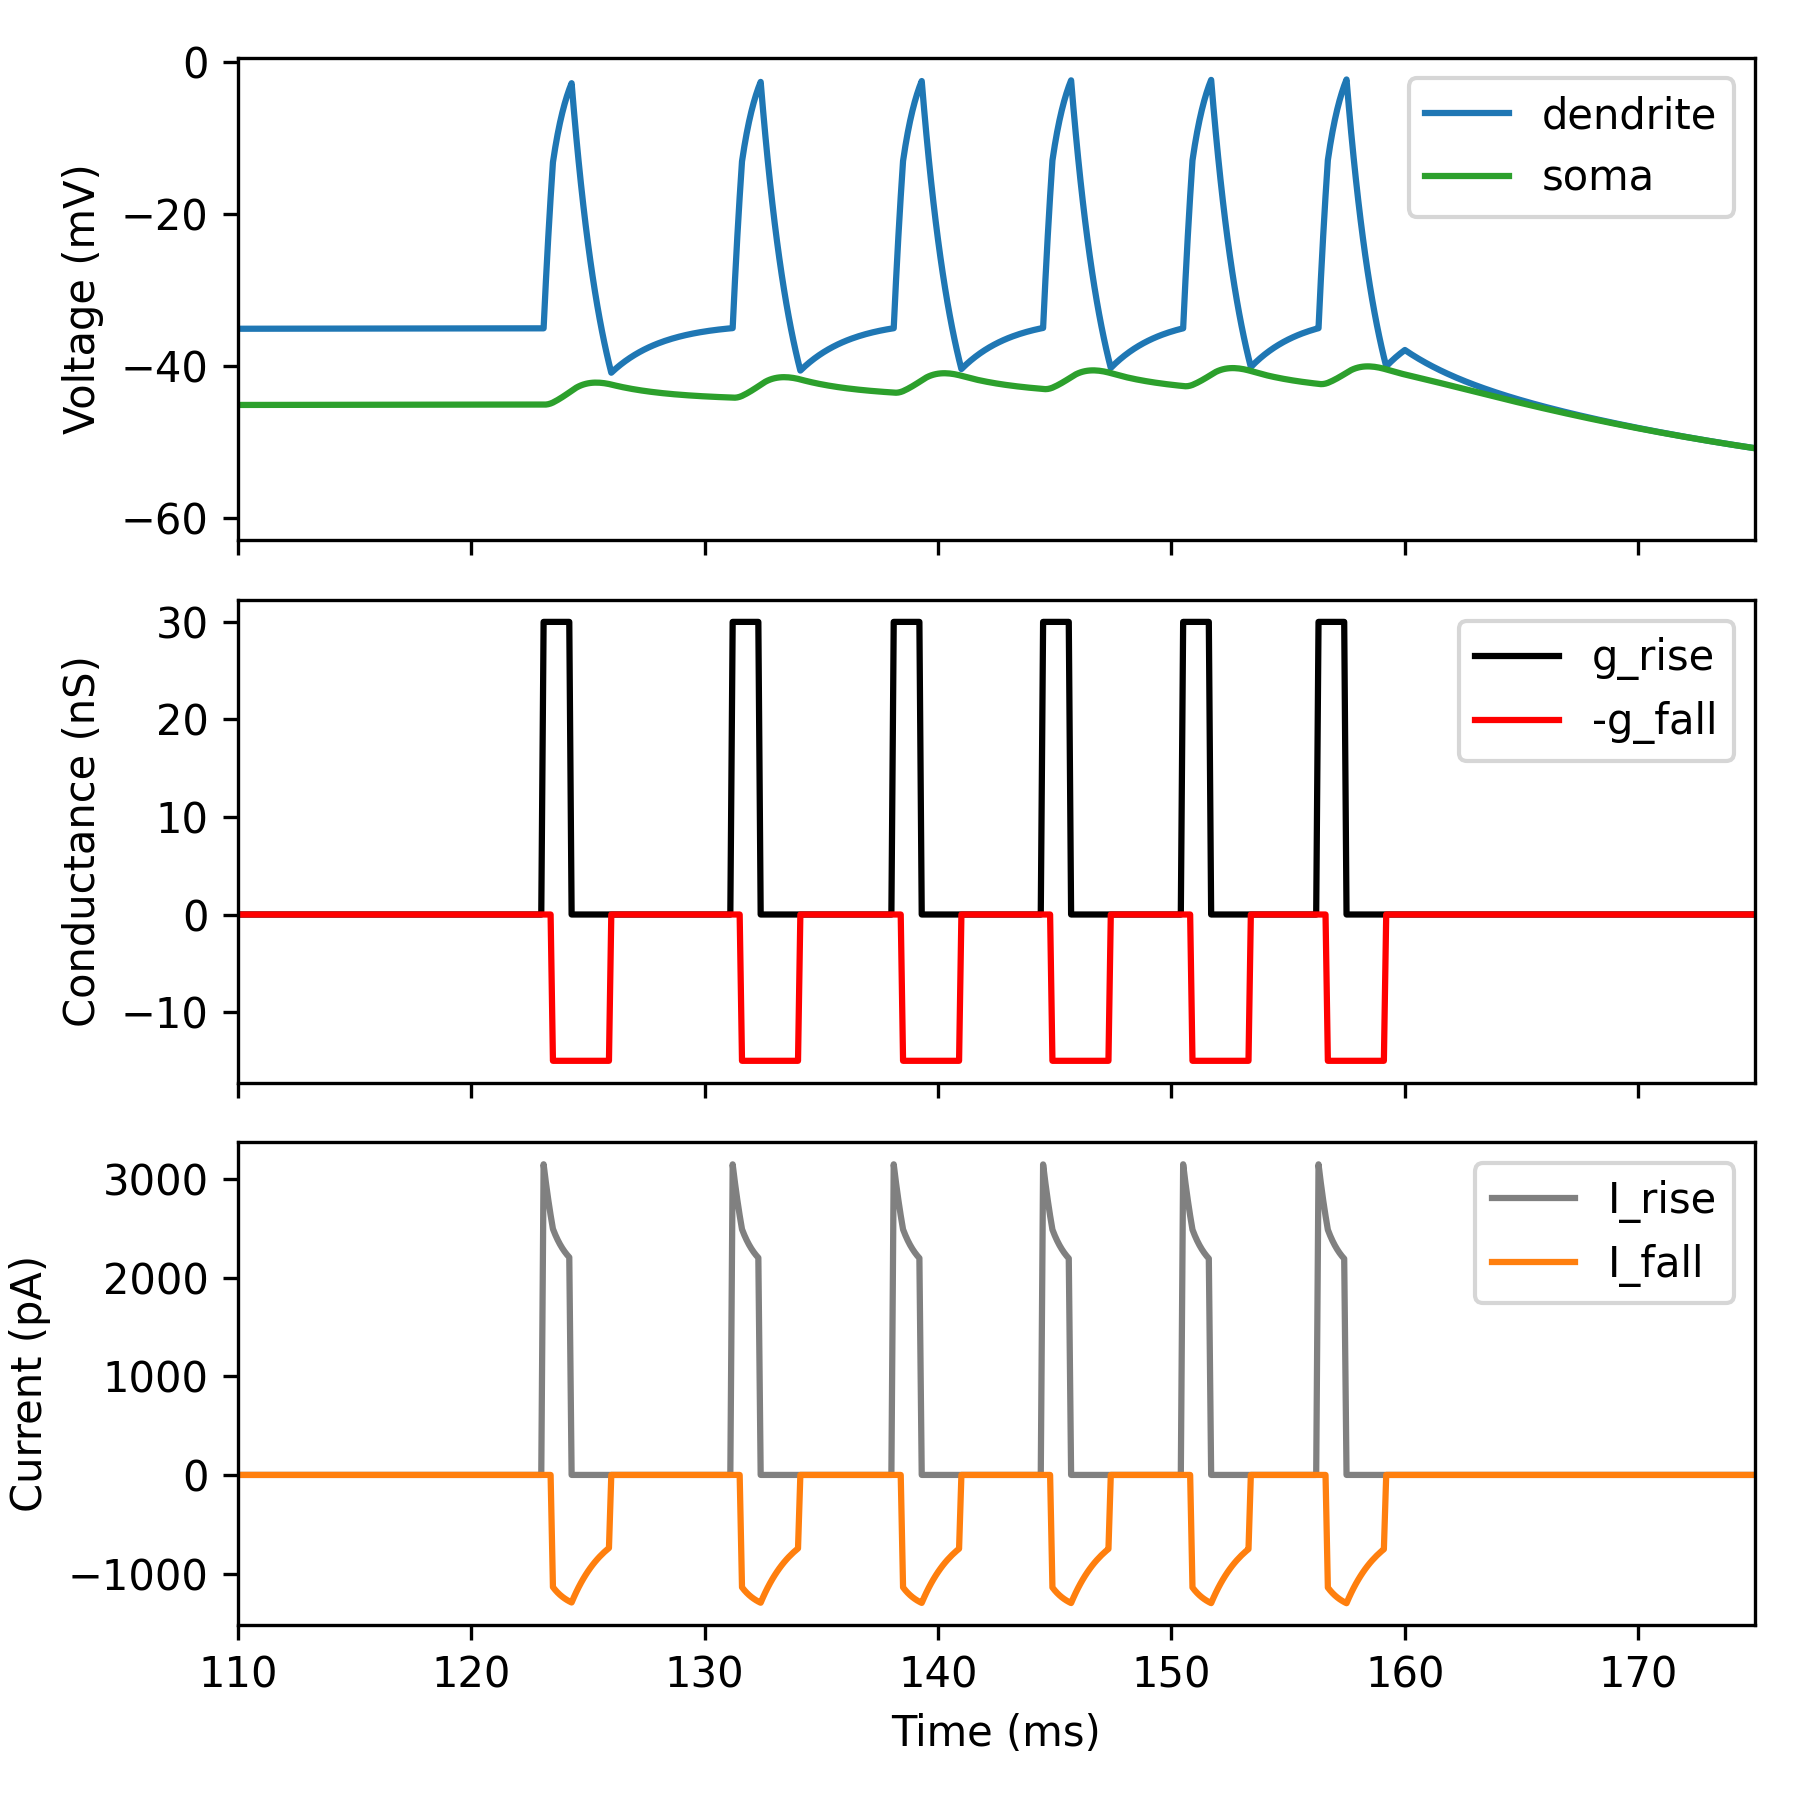
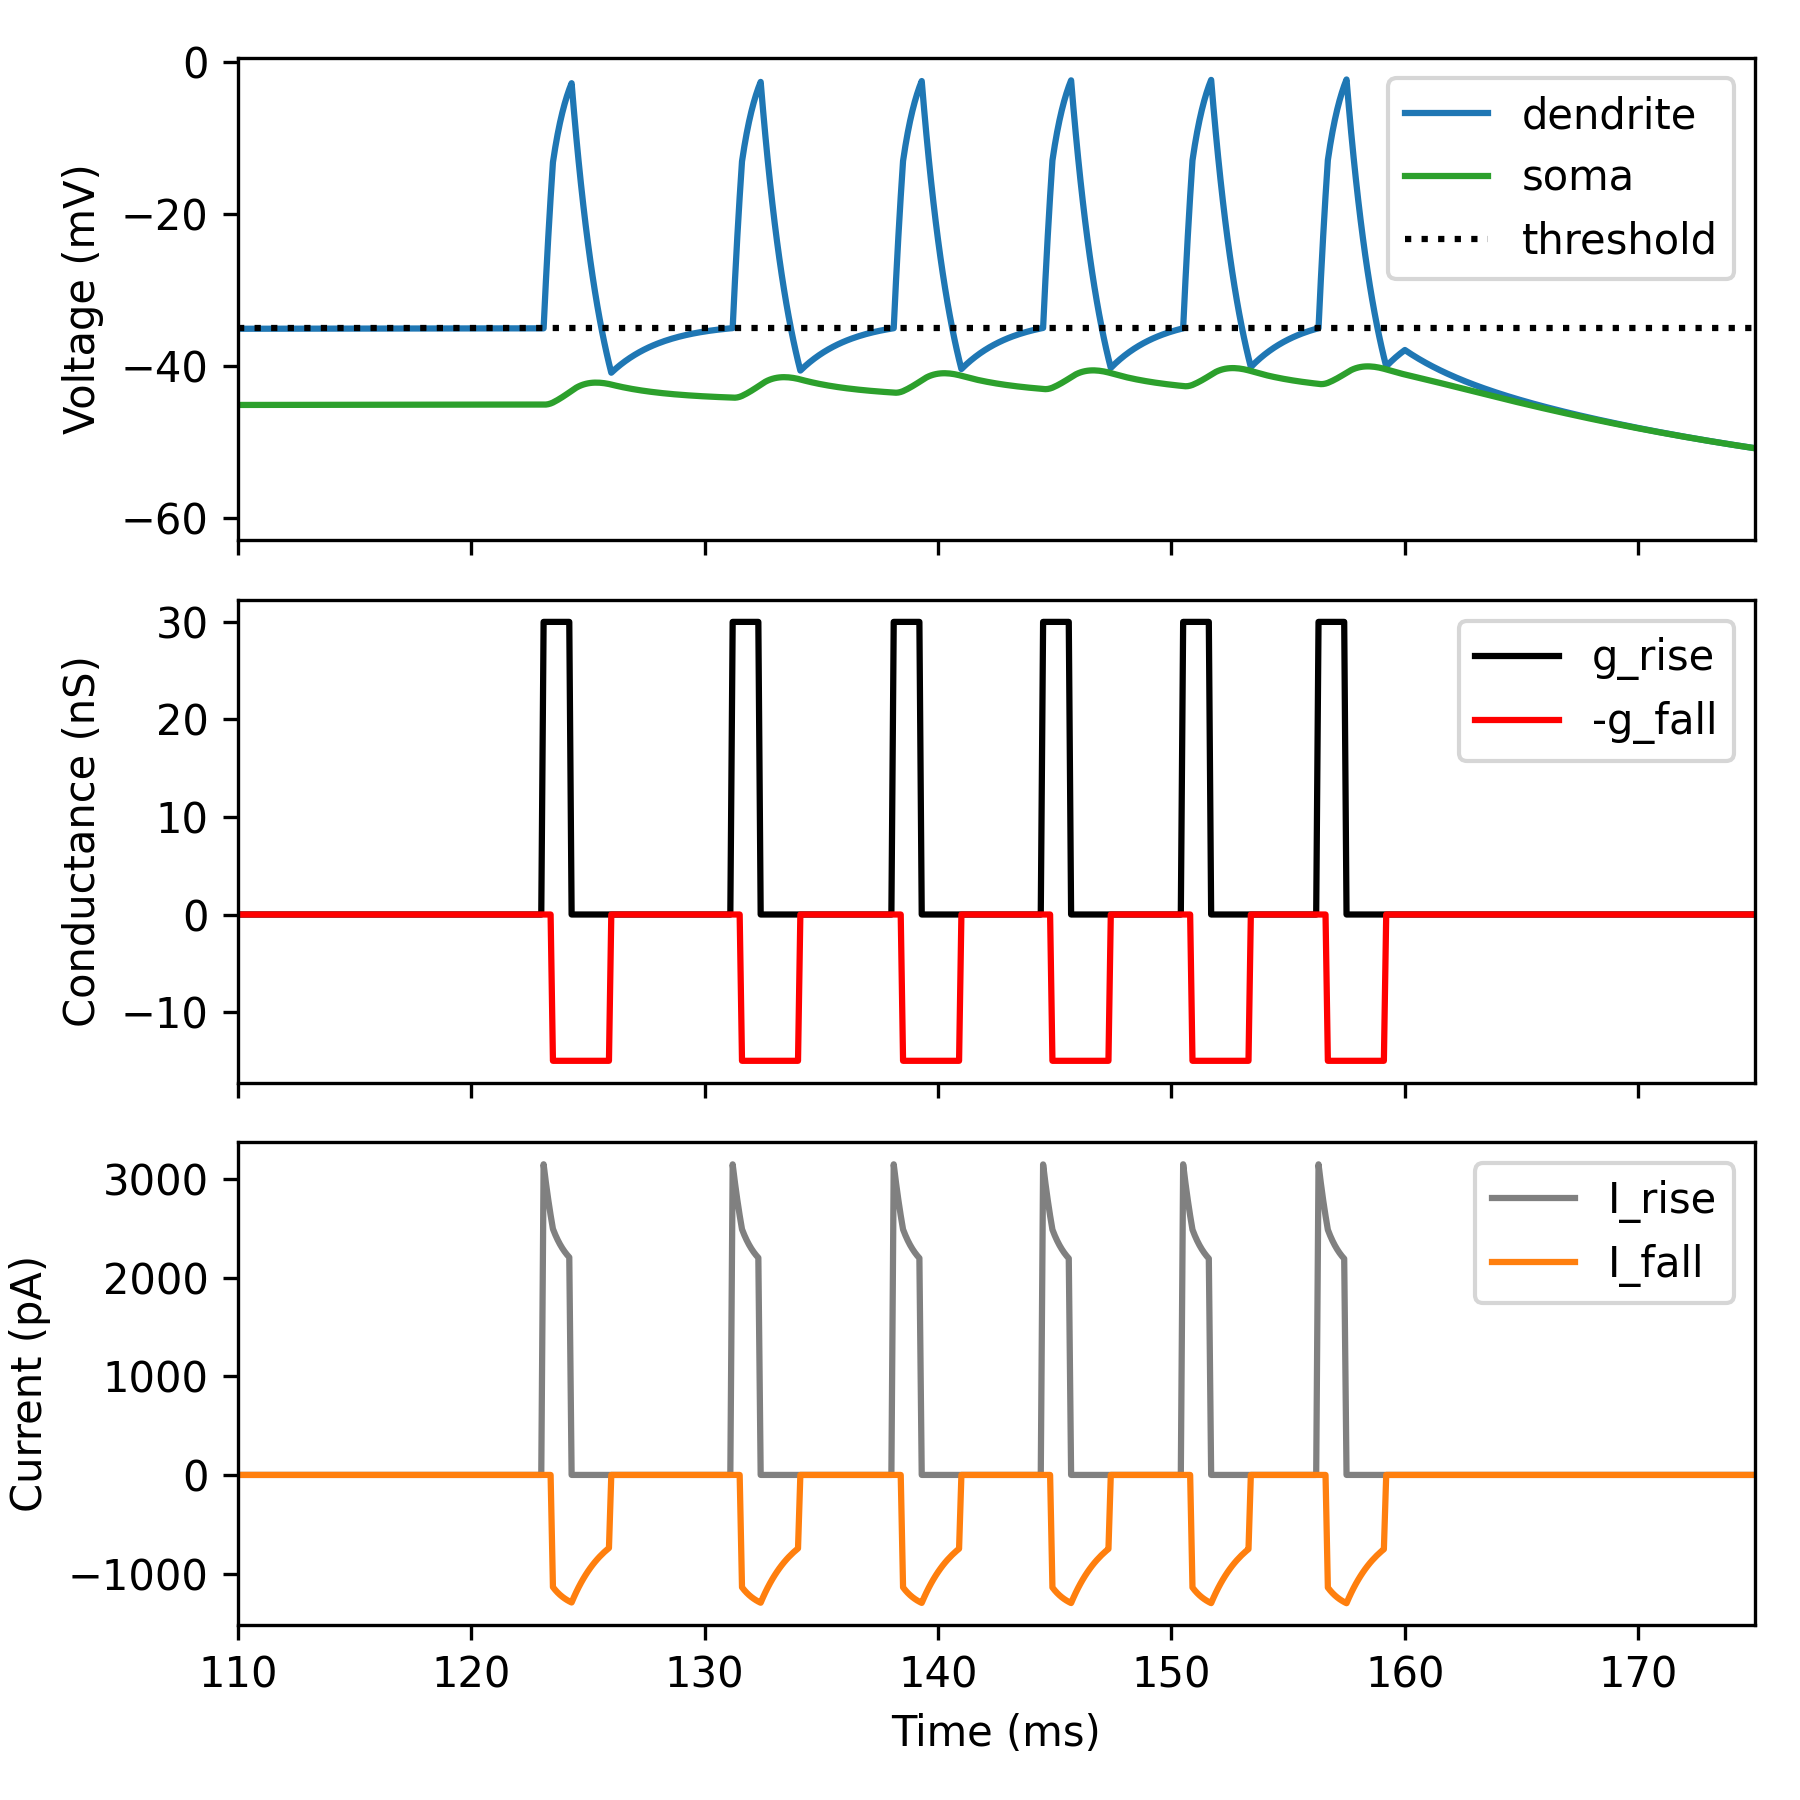
Minor changes

Changed region(s): [[0.7778, 0.0311, 0.9644, 0.1556]]

diff --git a/examples_new/comp_understanding.py b/examples_new/comp_understanding.py
@@ -73,6 +73,7 @@ ax0, ax1, ax2 = axes
 
 ax0.plot(time, v2, label='dendrite')
 ax0.plot(time, v1, label='soma', c='C2')
+ax0.axhline(-35, ls=':', c='black', label='threshold')
 ax0.set_ylabel('Voltage (mV)')
 ax0.set_xlim(110, 175)
 

diff --git a/docs_sphinx/source/examples/comp_understanding.rst b/docs_sphinx/source/examples/comp_understanding.rst
@@ -72,6 +72,7 @@ In this example:
     
     ax0.plot(time, v2, label='dendrite')
     ax0.plot(time, v1, label='soma', c='C2')
+    ax0.axhline(-35, ls=':', c='black', label='threshold')
     ax0.set_ylabel('Voltage (mV)')
     ax0.set_xlim(110, 175)
     
